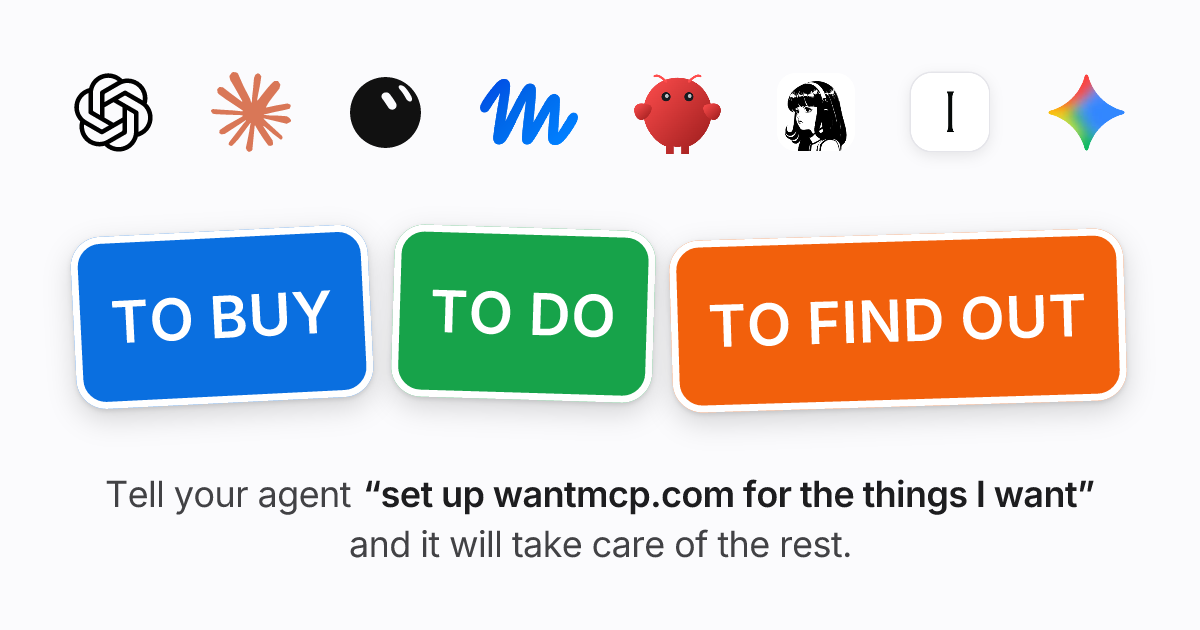
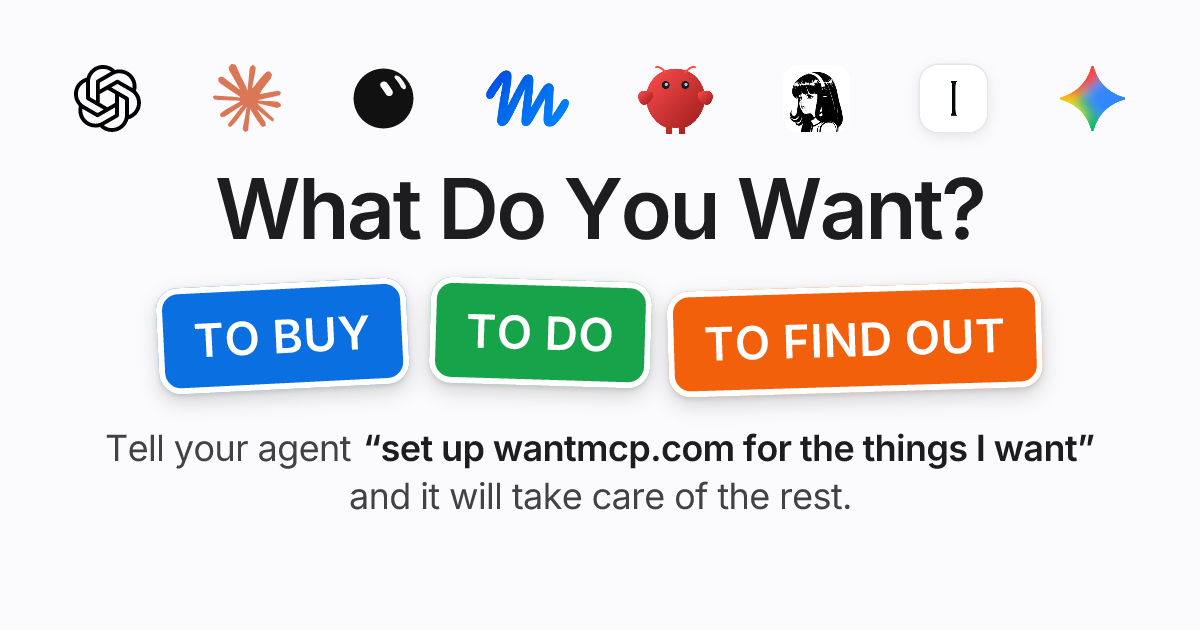
Share image: a title, smaller stickers, and nothing under X's title label
"What Do You Want?" on one line; the stickers shrink; the line to tell an agent moves up so the
bottom fifth of the card is empty, where X overlays the link's title.

diff --git a/apps/web/workers/og.tsx b/apps/web/workers/og.tsx
@@ -140,8 +140,10 @@ function Frame({ children, colors = C, motif = null, brand = true }: { children:
  * The home card (owner, 25 Nov 2026). It exists to get a click, and the link preview prints the name, the tagline
  * and the address under it, so the card repeats none of them and carries no logo of ours:
  *  - the marks of the apps it works with, where our lockup used to be;
- *  - the three kinds of list as stickers, the loudest thing on the card;
+ *  - the question, "What Do You Want?", on one line;
+ *  - the three kinds of list as stickers;
  *  - the one thing to do, in the owner's words.
+ * Nothing sits in the bottom fifth: X lays the link's title over it, and the line there was covered.
  */
 const STICKERS: Array<{ text: string; color: string; tilt: number }> = [
   { text: "TO BUY", color: "#0a6fe0", tilt: -3 },
@@ -152,37 +154,44 @@ const STICKERS: Array<{ text: string; color: string; tilt: number }> = [
 function HomeCard() {
   return (
     <Frame brand={false}>
-      <MarkRow />
-      <div style={{ display: "flex", alignItems: "center", justifyContent: "center", gap: 20, margin: "auto -24px 0" }}>
-        {STICKERS.map((k) => (
-          <div
-            key={k.text}
-            style={{
-              display: "flex",
-              background: k.color,
-              color: "#ffffff",
-              fontSize: 58,
-              whiteSpace: "nowrap",
-              fontWeight: 600,
-              letterSpacing: 0.5,
-              lineHeight: 1,
-              padding: "50px 30px",
-              borderRadius: 30,
-              border: "7px solid #ffffff",
-              boxShadow: "0 10px 26px rgba(0,0,0,0.16), 0 2px 5px rgba(0,0,0,0.12)",
-              transform: `rotate(${k.tilt}deg)`,
-            }}
-          >
-            {k.text}
-          </div>
-        ))}
-      </div>
-      <div style={{ display: "flex", flexDirection: "column", marginTop: "auto", alignItems: "center", gap: 6 }}>
-        <div style={{ display: "flex", alignItems: "baseline", gap: 12, fontSize: 36, letterSpacing: -0.6 }}>
-          <span style={{ color: C.ink2, fontWeight: 400 }}>Tell your agent</span>
-          <span style={{ fontWeight: 600 }}>“set up wantmcp.com for the things I want”</span>
+      {/* Everything sits in the top four fifths: X lays the link's title over the bottom edge of the image, and
+          other apps crop it (owner's screenshot, 25 Nov 2026: the last line was covered). */}
+      <div style={{ display: "flex", flexDirection: "column", marginTop: -8 }}>
+        <MarkRow size={68} />
+        <div style={{ display: "flex", justifyContent: "center", marginTop: 24, fontSize: 84, fontWeight: 600, letterSpacing: -2.6, lineHeight: 1.05, whiteSpace: "nowrap" }}>
+          What Do You Want?
         </div>
-        <div style={{ display: "flex", fontSize: 36, color: C.ink2, fontWeight: 400, letterSpacing: -0.6 }}>and it will take care of the rest.</div>
+        <div style={{ display: "flex", alignItems: "center", justifyContent: "center", gap: 20, marginTop: 30 }}>
+          {STICKERS.map((k) => (
+            <div
+              key={k.text}
+              style={{
+                display: "flex",
+                background: k.color,
+                color: "#ffffff",
+                fontSize: 46,
+                whiteSpace: "nowrap",
+                fontWeight: 600,
+                letterSpacing: 0.5,
+                lineHeight: 1,
+                padding: "24px 30px",
+                borderRadius: 22,
+                border: "6px solid #ffffff",
+                boxShadow: "0 8px 20px rgba(0,0,0,0.16), 0 2px 5px rgba(0,0,0,0.12)",
+                transform: `rotate(${k.tilt}deg)`,
+              }}
+            >
+              {k.text}
+            </div>
+          ))}
+        </div>
+        <div style={{ display: "flex", flexDirection: "column", marginTop: 38, alignItems: "center", gap: 4 }}>
+          <div style={{ display: "flex", alignItems: "baseline", gap: 12, fontSize: 36, letterSpacing: -0.6 }}>
+            <span style={{ color: C.ink2, fontWeight: 400 }}>Tell your agent</span>
+            <span style={{ fontWeight: 600 }}>“set up wantmcp.com for the things I want”</span>
+          </div>
+          <div style={{ display: "flex", fontSize: 36, color: C.ink2, fontWeight: 400, letterSpacing: -0.6 }}>and it will take care of the rest.</div>
+        </div>
       </div>
     </Frame>
   );

diff --git a/apps/web/app/routes/home.tsx b/apps/web/app/routes/home.tsx
@@ -84,12 +84,12 @@ export function meta({ loaderData }: Route.MetaArgs) {
     { property: "og:description", content: description },
     { property: "og:url", content: `${origin}/` },
     // Bump v when the home card design changes.
-    { property: "og:image", content: `${origin}/og/home.png?v=12` },
+    { property: "og:image", content: `${origin}/og/home.png?v=13` },
     { property: "og:image:width", content: "1200" },
     { property: "og:image:height", content: "630" },
     {
       property: "og:image:alt",
-      content: "The marks of ChatGPT, Claude, Grok Bot, Muse, OpenClaw, Hermes Agent, Instinct and Gemini. Three stickers: To buy, To do, To find out. Tell your agent \u201cset up wantmcp.com for the things I want\u201d and it will take care of the rest.",
+      content: "The marks of ChatGPT, Claude, Grok Bot, Muse, OpenClaw, Hermes Agent, Instinct and Gemini. What do you want? Three stickers: To buy, To do, To find out. Tell your agent \u201cset up wantmcp.com for the things I want\u201d and it will take care of the rest.",
     },
     { name: "twitter:card", content: "summary_large_image" },
     // Instructions for agents reading the site (SPEC 13.4).

diff --git a/apps/web/app/routes/connect.tsx b/apps/web/app/routes/connect.tsx
@@ -65,7 +65,7 @@ export function meta({ loaderData }: Route.MetaArgs) {
     { property: "og:title", content: "Connect an agent to The Want MCP" },
     { property: "og:description", content: description },
     { property: "og:url", content: `${origin}/connect` },
-    { property: "og:image", content: `${origin}/og/home.png?v=12` },
+    { property: "og:image", content: `${origin}/og/home.png?v=13` },
     { name: "twitter:card", content: "summary_large_image" },
   ];
 }

diff --git a/apps/web/app/routes/for.tsx b/apps/web/app/routes/for.tsx
@@ -34,7 +34,7 @@ export function meta({ loaderData }: Route.MetaArgs) {
     { property: "og:title", content: "Lists for every kind of job" },
     { property: "og:description", content: description },
     { property: "og:url", content: `${origin}/for` },
-    { property: "og:image", content: `${origin}/og/home.png?v=12` },
+    { property: "og:image", content: `${origin}/og/home.png?v=13` },
     { name: "twitter:card", content: "summary_large_image" },
   ];
 }

diff --git a/apps/web/app/routes/themes.tsx b/apps/web/app/routes/themes.tsx
@@ -46,7 +46,7 @@ export function meta({ loaderData, location }: Route.MetaArgs) {
     ...(location.search ? [{ name: "robots", content: "noindex, follow" }] : []),
     { property: "og:title", content: "List themes" },
     { property: "og:description", content: description },
-    { property: "og:image", content: `${origin}/og/home.png?v=12` },
+    { property: "og:image", content: `${origin}/og/home.png?v=13` },
   ];
 }
 
